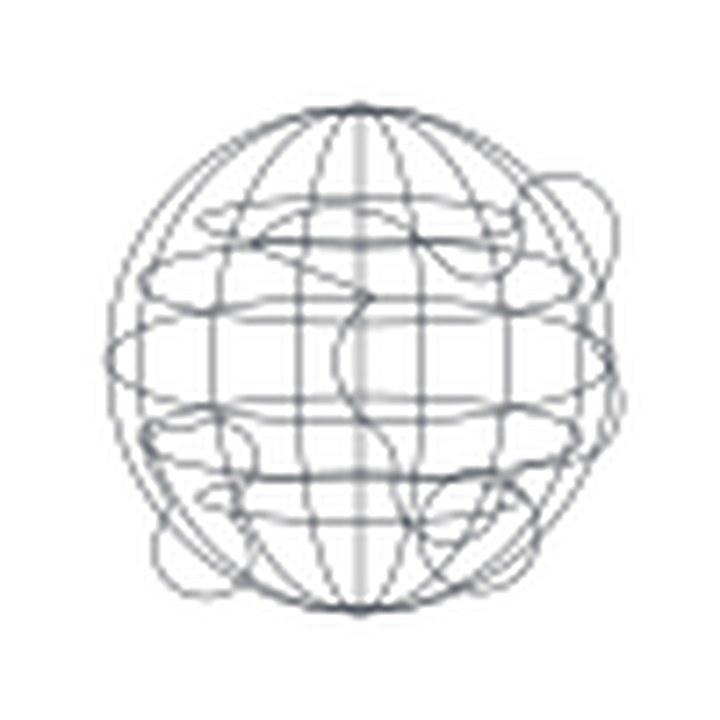
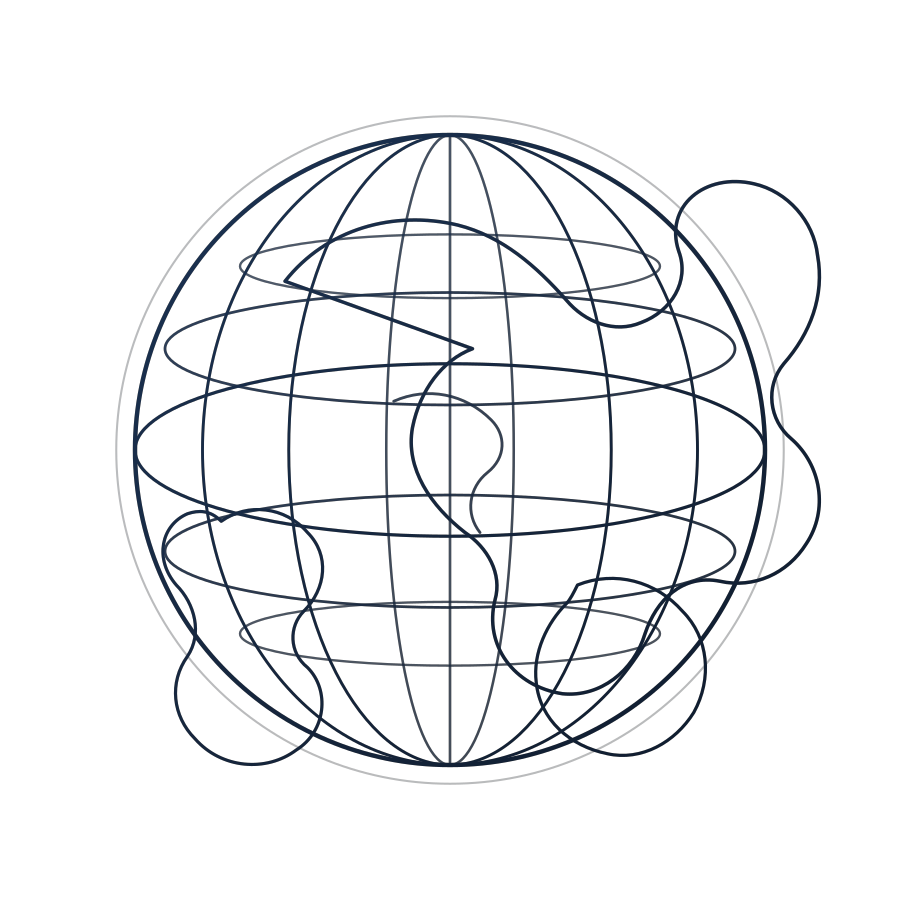
Enlarge tilted revolving line-art globe on hero left
Bigger refined globe design with 3D tilt, left-side revolve motion,
and copy shifted right for clearer quality-assured readability.

Changed region(s): [[0.1222, 0.1222, 0.9167, 0.8861], [0.8556, 0.2139, 0.8861, 0.2444]]

diff --git a/components/GlobeWatermark.tsx b/components/GlobeWatermark.tsx
@@ -3,8 +3,8 @@
 import { useEffect, useState } from "react";
 
 /**
- * Moving line-art globe watermark for the hero (PNG + SVG).
- * Soft ink strokes behind the cream wall — never a highlighted card.
+ * Large tilted revolving line-art globe on the hero left.
+ * Soft watermark behind the cream wall — never a highlighted card.
  */
 export default function GlobeWatermark({
   className = "",
@@ -31,25 +31,116 @@ export default function GlobeWatermark({
         <span className="globe-glow globe-glow--b" />
       </div>
 
-      <div
-        className={`absolute right-[-8%] top-1/2 w-[min(90vw,560px)] aspect-square -translate-y-1/2 sm:right-[-2%] lg:right-[4%] ${
-          reduced ? "" : "animate-globe-float"
-        }`}
-      >
-        {/* Moving line-art globe PNG */}
-        {/* eslint-disable-next-line @next/next/no-img-element */}
-        <img
-          src="/images/globe-line-art.png"
-          alt=""
-          className={`h-full w-full object-contain opacity-[0.42] ${
-            reduced ? "" : "animate-globe-spin"
-          }`}
-        />
+      {/* Bigger tilted globe — left side, revolving */}
+      <div className="globe-stage absolute left-[-18%] top-[46%] sm:left-[-12%] lg:left-[-8%] xl:left-[-4%]">
+        <div
+          className={`globe-tilt ${reduced ? "globe-tilt--still" : "animate-globe-revolve"}`}
+        >
+          <svg
+            viewBox="0 0 480 480"
+            className="globe-svg h-full w-full"
+            fill="none"
+            xmlns="http://www.w3.org/2000/svg"
+          >
+            <defs>
+              <linearGradient
+                id="globeStroke"
+                x1="80"
+                y1="70"
+                x2="400"
+                y2="410"
+                gradientUnits="userSpaceOnUse"
+              >
+                <stop offset="0%" stopColor="#1B3354" />
+                <stop offset="55%" stopColor="#16263D" />
+                <stop offset="100%" stopColor="#0F1C2E" />
+              </linearGradient>
+            </defs>
+            <g
+              stroke="url(#globeStroke)"
+              strokeLinecap="round"
+              strokeLinejoin="round"
+            >
+              <circle cx="240" cy="240" r="178" strokeWidth="1.1" opacity="0.28" />
+              <circle cx="240" cy="240" r="168" strokeWidth="2.35" />
+              <ellipse cx="240" cy="240" rx="168" ry="46" strokeWidth="1.7" />
+              <ellipse
+                cx="240"
+                cy="186"
+                rx="152"
+                ry="30"
+                strokeWidth="1.45"
+                opacity="0.9"
+              />
+              <ellipse
+                cx="240"
+                cy="294"
+                rx="152"
+                ry="30"
+                strokeWidth="1.45"
+                opacity="0.9"
+              />
+              <ellipse
+                cx="240"
+                cy="142"
+                rx="112"
+                ry="17"
+                strokeWidth="1.25"
+                opacity="0.75"
+              />
+              <ellipse
+                cx="240"
+                cy="338"
+                rx="112"
+                ry="17"
+                strokeWidth="1.25"
+                opacity="0.75"
+              />
+              <g className={reduced ? undefined : "animate-globe-meridian"}>
+                <ellipse
+                  cx="240"
+                  cy="240"
+                  rx="34"
+                  ry="168"
+                  strokeWidth="1.35"
+                  opacity="0.8"
+                />
+                <ellipse cx="240" cy="240" rx="86" ry="168" strokeWidth="1.55" />
+                <ellipse cx="240" cy="240" rx="132" ry="168" strokeWidth="1.55" />
+                <line
+                  x1="240"
+                  y1="72"
+                  x2="240"
+                  y2="408"
+                  strokeWidth="1.4"
+                  opacity="0.78"
+                />
+              </g>
+              <path
+                strokeWidth="1.85"
+                d="M152 150c22-28 58-38 92-30 24 6 42 22 58 40 10 12 26 18 40 12 16-6 26-22 20-38-8-24 14-42 40-36 18 4 32 20 34 38 4 22-4 42-18 58-10 12-8 30 4 40 16 14 20 38 8 56-10 16-28 24-46 20-20-4-34 10-40 28-6 20-24 34-44 32-26-4-42-26-36-50 4-14-4-28-16-36-18-14-32-34-28-56 4-20 16-36 32-42z"
+              />
+              <path
+                strokeWidth="1.7"
+                d="M118 278c14-10 34-8 46 6 12 12 10 30-2 42-8 8-8 22 2 30 12 12 10 34-6 44-16 12-40 10-54-6-12-12-14-30-4-44 8-12 4-28-6-38-12-14-8-32 6-38 6-2 12-2 18 4z"
+              />
+              <path
+                strokeWidth="1.7"
+                d="M308 312c20-8 42-2 56 14 14 14 16 36 6 54-10 16-28 26-46 22-20-4-36-18-38-38-2-16 6-32 16-42 2-2 4-6 6-10z"
+              />
+              <path
+                strokeWidth="1.5"
+                opacity="0.85"
+                d="M210 214c18-8 38-4 52 10 8 8 8 20-2 28-10 8-12 22-4 32"
+              />
+            </g>
+          </svg>
+        </div>
       </div>
 
-      {/* Cream hero wall — stronger on the left for copy */}
-      <div className="absolute inset-0 bg-gradient-to-r from-cream-50 from-0% via-cream-50/92 via-46% to-cream-50/48" />
-      <div className="absolute inset-0 bg-gradient-to-t from-cream-50/95 via-transparent to-cream-50/48" />
+      {/* Cream wall — clearer on the right where copy lives */}
+      <div className="absolute inset-0 bg-gradient-to-r from-cream-50/55 via-cream-50/78 to-cream-50" />
+      <div className="absolute inset-0 bg-gradient-to-t from-cream-50/95 via-transparent to-cream-50/55" />
     </div>
   );
 }

diff --git a/app/globals.css b/app/globals.css
@@ -389,53 +389,73 @@ video {
   animation: ocean-drift 22s ease-in-out infinite;
 }
 
-/* Line-art globe watermark motion */
-@keyframes globe-spin {
+/* Large tilted revolving line-art globe (hero left) */
+.globe-stage {
+  width: min(118vw, 820px);
+  aspect-ratio: 1;
+  transform: translate3d(0, -50%, 0);
+  perspective: 1100px;
+}
+.globe-tilt {
+  width: 100%;
+  height: 100%;
+  transform-style: preserve-3d;
+  transform: rotateX(12deg) rotateZ(-22deg) rotateY(-18deg);
+}
+.globe-tilt--still {
+  transform: rotateX(12deg) rotateZ(-22deg) rotateY(-28deg);
+}
+.globe-svg {
+  opacity: 0.52;
+  filter: drop-shadow(0 18px 28px rgb(22 38 61 / 0.12));
+}
+@keyframes globe-revolve {
   0% {
-    transform: rotate(-9deg) scale(1);
+    transform: rotateX(12deg) rotateZ(-22deg) rotateY(-28deg) translate3d(0, 0, 0);
   }
   50% {
-    transform: rotate(9deg) scale(1.03);
+    transform: rotateX(14deg) rotateZ(-18deg) rotateY(28deg) translate3d(1.5%, -1.5%, 0);
   }
   100% {
-    transform: rotate(-9deg) scale(1);
+    transform: rotateX(12deg) rotateZ(-22deg) rotateY(-28deg) translate3d(0, 0, 0);
   }
 }
-@keyframes globe-float {
-  0%,
+@keyframes globe-meridian {
+  0% {
+    transform: rotate(0deg);
+  }
   100% {
-    transform: translate3d(0, -50%, 0);
-  }
-  50% {
-    transform: translate3d(-2.5%, calc(-50% - 14px), 0);
+    transform: rotate(360deg);
   }
 }
-.animate-globe-spin {
+.animate-globe-revolve {
   transform-origin: center center;
-  animation: globe-spin 22s ease-in-out infinite;
+  animation: globe-revolve 28s ease-in-out infinite;
 }
-.animate-globe-float {
-  animation: globe-float 14s ease-in-out infinite;
+.animate-globe-meridian {
+  transform-box: fill-box;
+  transform-origin: center;
+  animation: globe-meridian 48s linear infinite;
 }
 .globe-glow {
   position: absolute;
   border-radius: 9999px;
-  filter: blur(28px);
+  filter: blur(34px);
   pointer-events: none;
 }
 .globe-glow--a {
-  top: 12%;
-  right: 4%;
-  width: min(48vw, 420px);
-  height: min(48vw, 420px);
-  background: radial-gradient(circle, rgb(22 38 61 / 0.08), transparent 68%);
+  top: 8%;
+  left: -4%;
+  width: min(62vw, 560px);
+  height: min(62vw, 560px);
+  background: radial-gradient(circle, rgb(22 38 61 / 0.12), transparent 68%);
 }
 .globe-glow--b {
-  bottom: 8%;
-  right: 18%;
-  width: min(32vw, 280px);
-  height: min(32vw, 280px);
-  background: radial-gradient(circle, rgb(212 175 55 / 0.1), transparent 70%);
+  bottom: 6%;
+  left: 10%;
+  width: min(40vw, 340px);
+  height: min(40vw, 340px);
+  background: radial-gradient(circle, rgb(212 175 55 / 0.12), transparent 70%);
 }
 
 /* Revolving ocean blobs — fill empty hero / page space */
@@ -503,8 +523,8 @@ video {
 }
 @media (prefers-reduced-motion: reduce) {
   .animate-ocean-drift,
-  .animate-globe-spin,
-  .animate-globe-float,
+  .animate-globe-revolve,
+  .animate-globe-meridian,
   .ocean-blob--a,
   .ocean-blob--b,
   .ocean-blob--c {

diff --git a/app/page.tsx b/app/page.tsx
@@ -52,11 +52,11 @@ export default async function HomePage() {
 
   return (
     <div className="relative">
-      {/* Hero — moving line-art globe watermark */}
-      <section className="relative overflow-hidden min-h-[min(70vh,620px)] flex flex-col justify-center">
+      {/* Hero — large tilted revolving line-art globe on the left */}
+      <section className="relative overflow-hidden min-h-[min(74vh,680px)] flex flex-col justify-center">
         <GlobeWatermark />
         <div className="relative mx-auto max-w-7xl w-full px-4 sm:px-6 pt-10 sm:pt-14 pb-12 sm:pb-16">
-          <div className="animate-rise min-w-0 max-w-2xl">
+          <div className="animate-rise min-w-0 max-w-xl sm:max-w-lg lg:max-w-xl ml-auto lg:mr-2">
             <p className="font-display text-sm font-semibold tracking-wide text-ink-800 mb-3 sm:mb-4">
               Certko
             </p>
